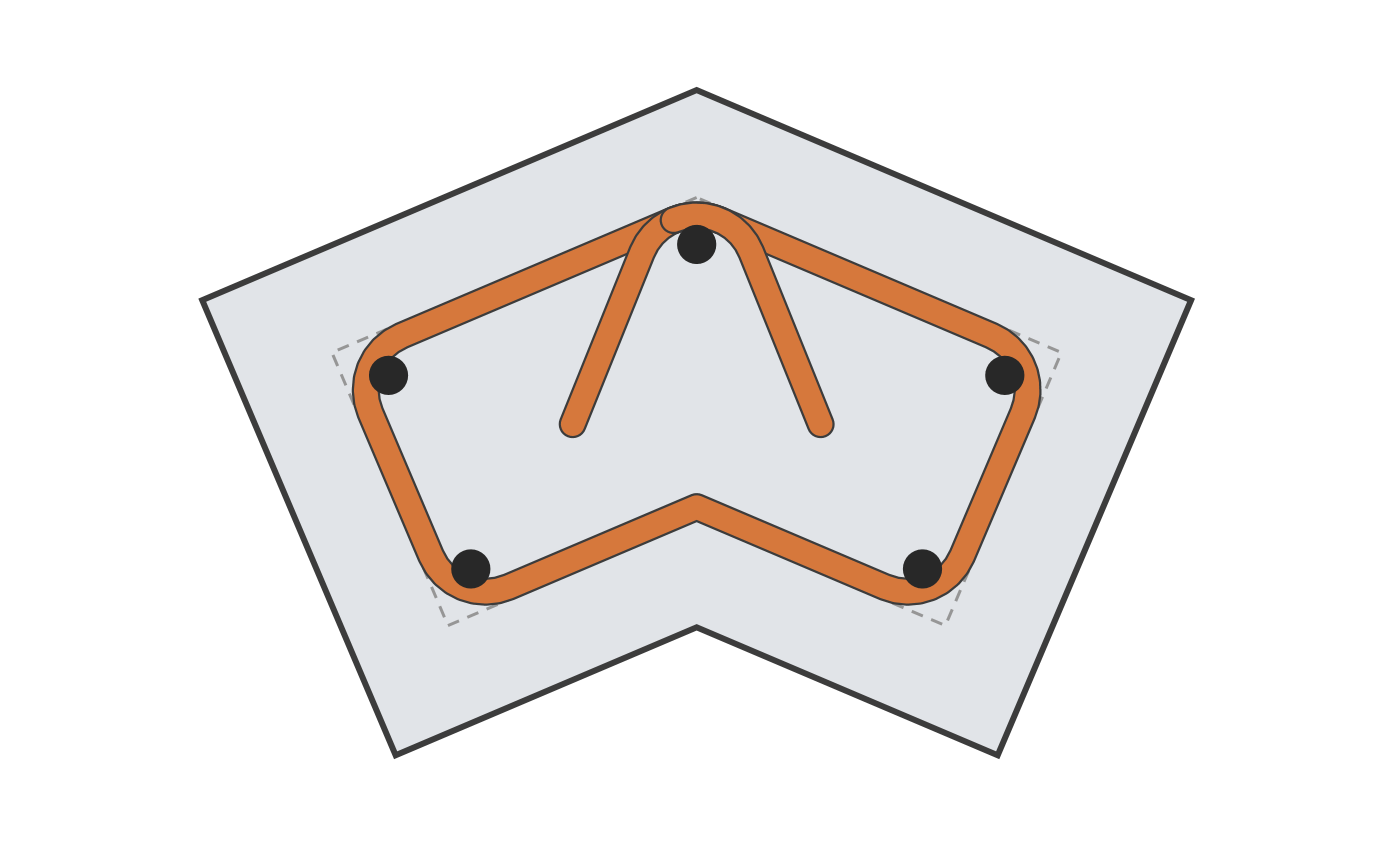
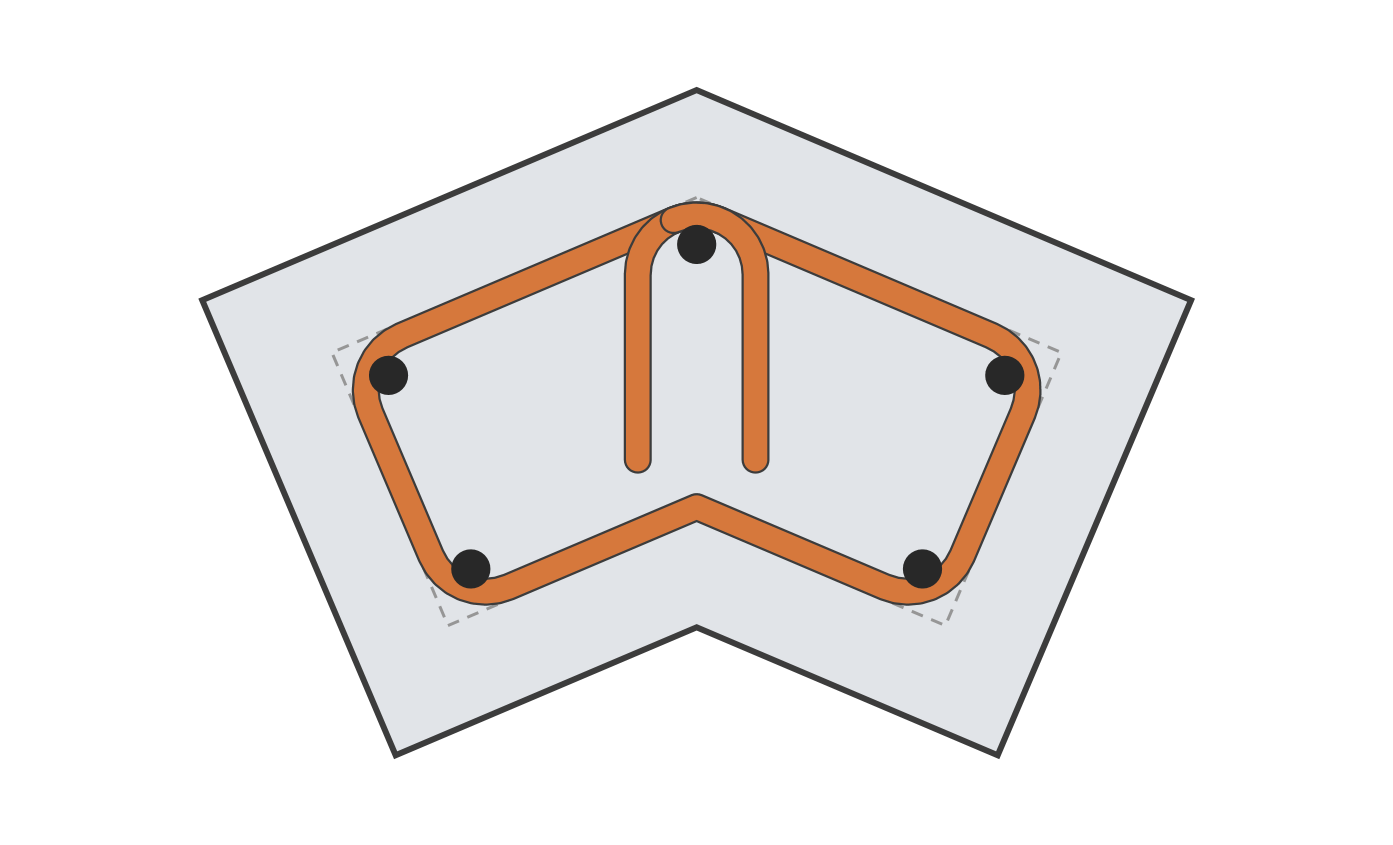
Stirrup hooks in plan leave the bar parallel whatever the corner (45 degrees past a square one, more past an open one, e.g. the ridge apex)

Changed region(s): [[0.4013, 0.3077, 0.4939, 0.5538], [0.5248, 0.3077, 0.6174, 0.5538]]

diff --git a/revit_mcp/rebar_spec.py b/revit_mcp/rebar_spec.py
@@ -132,8 +132,9 @@ def bent_stirrup(vertices, radius, hook_leg, is_open=False, bend=None):
     """A stirrup in plan as it is bent: its centerline `radius` outside the
     drawn vertices (the wrapped bar centers), round over each bar, and - a
     closed one - the two 135-degree hooks at the first corner, each going
-    on round the bar 45 degrees past the corner and then straight into the
-    core `hook_leg`. `bend`: the bend radius of the centerline when larger
+    on round the bar so both legs leave it parallel (45 degrees past a
+    square corner, more past an open one) and then straight into the core
+    `hook_leg`. `bend`: the bend radius of the centerline when larger
     than `radius` (Revit bends a stirrup round a pin: about 2.5 db), the
     corner then rounding inside the bar. Returns [path, hook, hook]
     ([path] when open)."""
@@ -182,7 +183,10 @@ def bent_stirrup(vertices, radius, hook_leg, is_open=False, bend=None):
     a_in, a_out = angles[0]
     p = centers.get(0, pts[0])
     hooks = []
-    for start, end, sign in ((a_in, a_out + math.pi / 4, 1.0), (a_out, a_in - math.pi / 4, -1.0)):
+    # the two hooks leave the bar parallel, side by side, whatever the
+    # corner (45 degrees past a square one, more past an open one)
+    extra = max(0.0, (math.pi - (a_out - a_in)) / 2.0)
+    for start, end, sign in ((a_in, a_out + extra, 1.0), (a_out, a_in - extra, -1.0)):
         arc = _arc(p, bend, start, end)
         tx, ty = -math.sin(end) * sign, math.cos(end) * sign
         arc.append((arc[-1][0] + tx * hook_leg, arc[-1][1] + ty * hook_leg))
